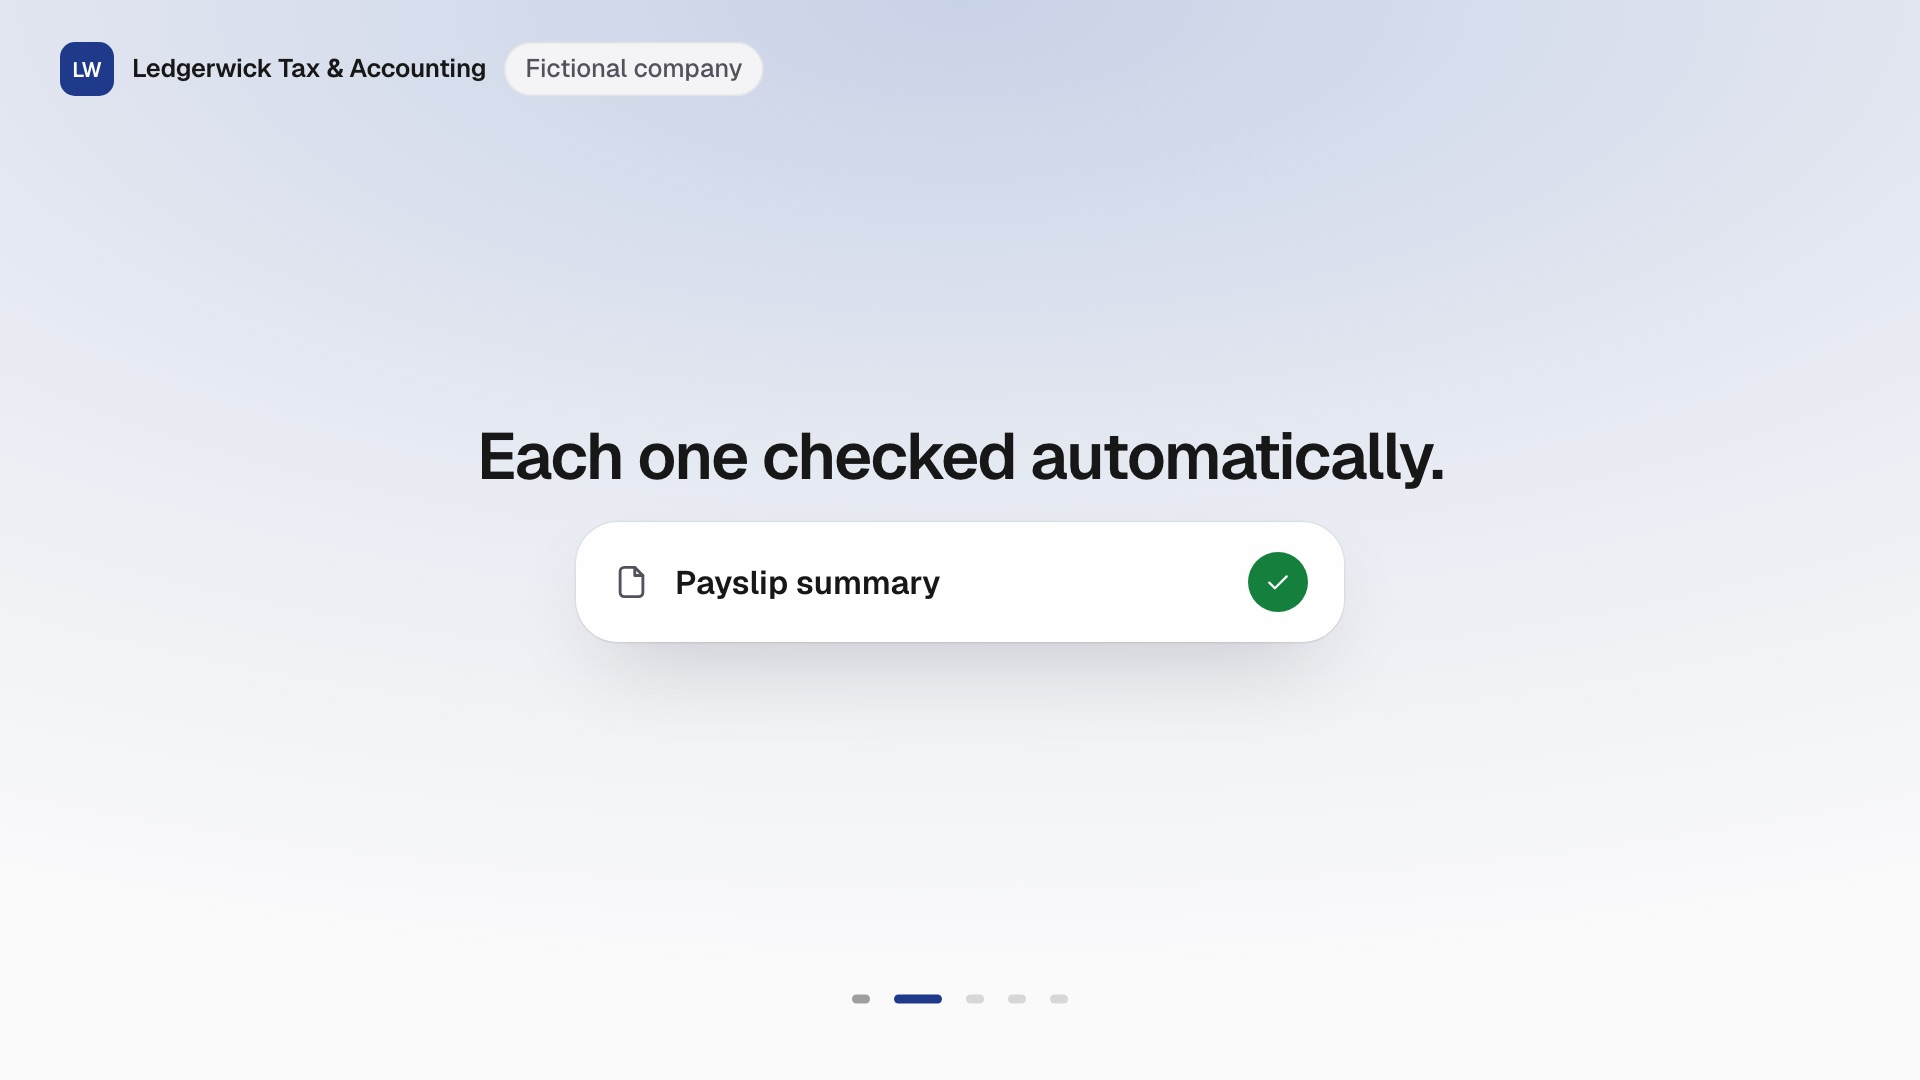
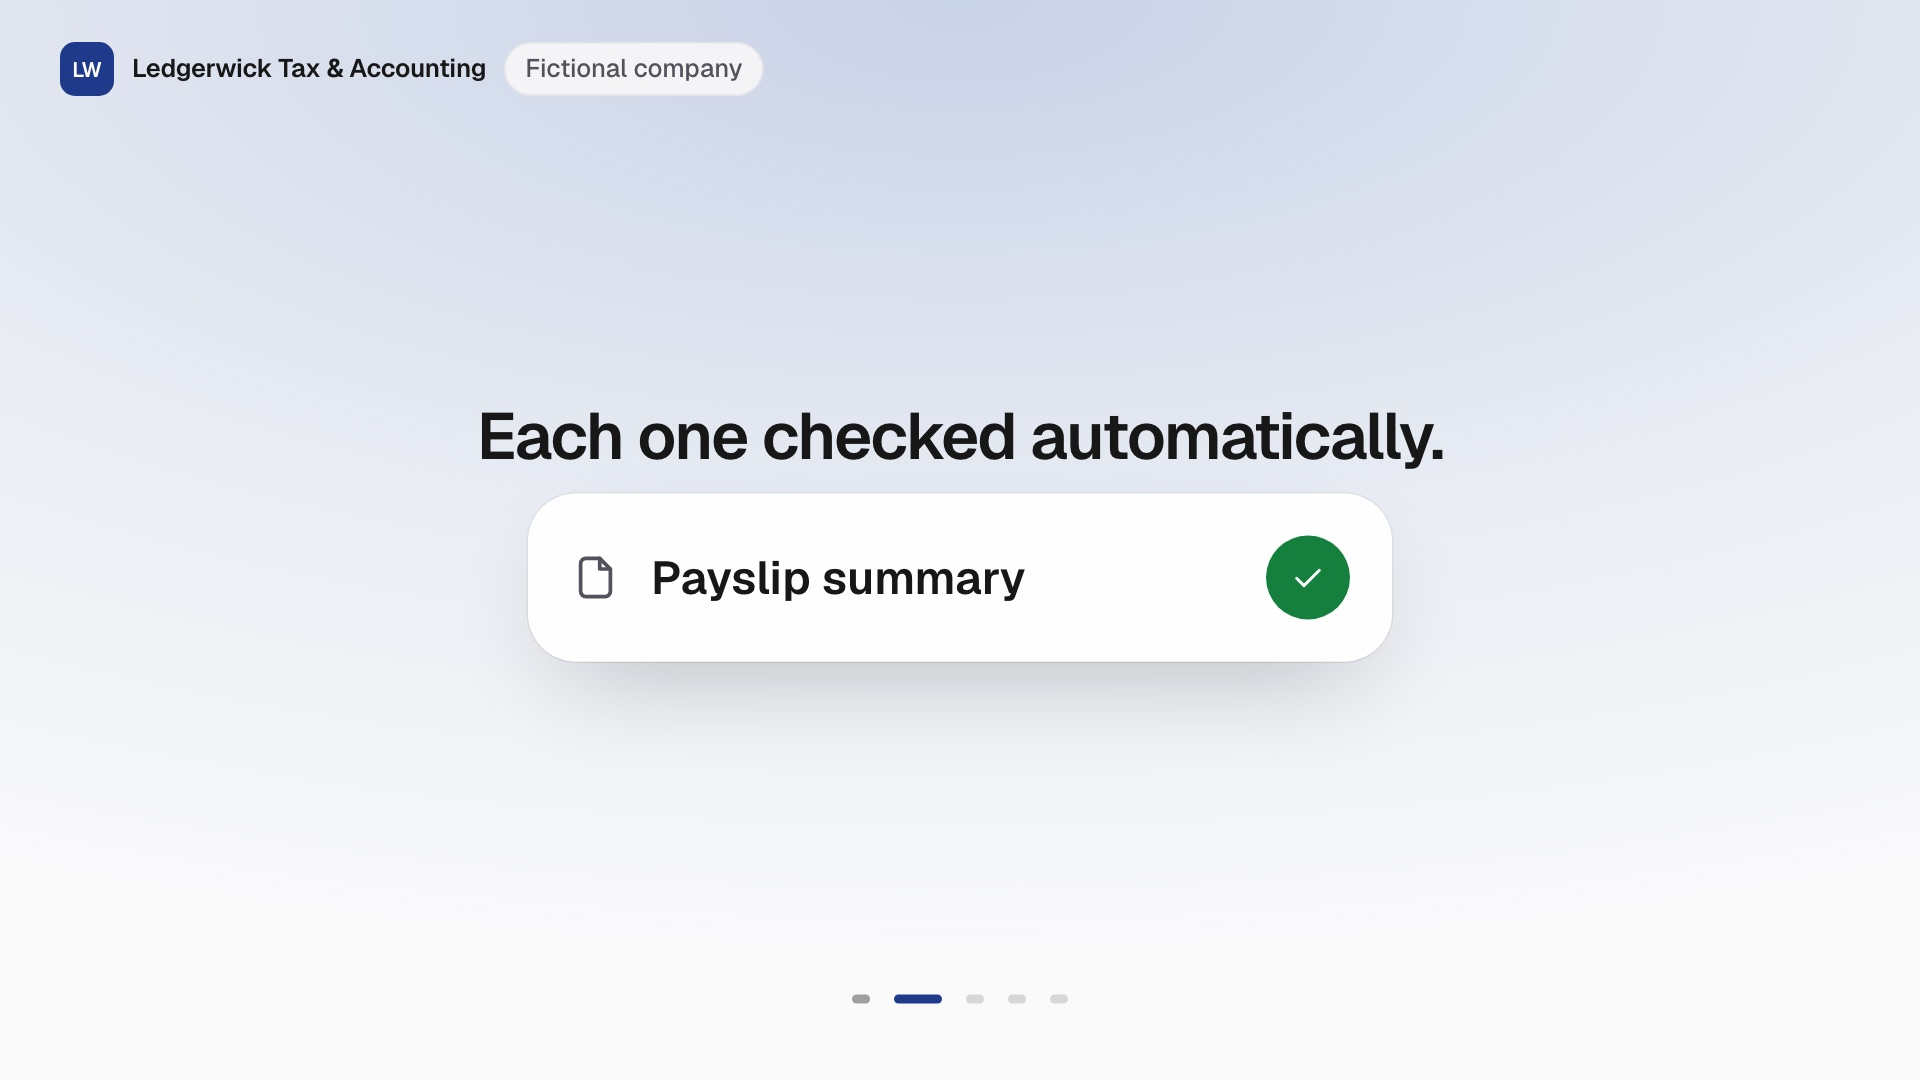
Scale the keynote elements up so each beat reads at phone-feed size

Changed region(s): [[0.25, 0.3667, 0.75, 0.4889], [0.3125, 0.4889, 0.7188, 0.6111], [0.2812, 0.5194, 0.5312, 0.55]]

diff --git a/packages/ui/src/film/keynote-parts.tsx b/packages/ui/src/film/keynote-parts.tsx
@@ -7,7 +7,15 @@ import type { KeynoteChipTone } from "./keynote-script";
  * The large, chrome-free elements a keynote beat shows: one message, one notification, one row,
  * one slot, one card or three figures. Text starts at 18 px so it reads in a phone feed.
  */
-const surface = "rounded-[28px] bg-white/95 shadow-[0_1px_2px_rgb(0_0_0/0.04),0_24px_60px_-20px_rgb(0_0_0/0.22)] ring-1 ring-black/5";
+const surface = "rounded-[32px] bg-white/95 shadow-[0_1px_2px_rgb(0_0_0/0.04),0_28px_70px_-24px_rgb(0_0_0/0.24)] ring-1 ring-black/5";
+
+// One scale for every part, sized for a 1920x1080 video watched in a phone feed.
+// At the 1280x720 recording layout: cards are 45% of the frame, body text 26 px, small text 20 px.
+const cardWidth = "w-full max-w-[30rem] md:max-w-[min(45vw,50rem)]";
+const metaText = "text-[clamp(18px,1.6vw,26px)]";
+const bodyText = "text-[clamp(20px,2vw,34px)]";
+const titleText = "text-[clamp(24px,2.4vw,40px)]";
+const valueText = "text-[clamp(40px,4.2vw,72px)]";
 
 const chipTones: Record<KeynoteChipTone, string> = {
   neutral: "bg-white/90 text-foreground ring-black/10",
@@ -19,7 +27,7 @@ const chipTones: Record<KeynoteChipTone, string> = {
 
 export function KeynoteChip({ tone = "neutral", children }: { tone?: KeynoteChipTone; children: ReactNode }) {
   return (
-    <span className={cx("inline-flex h-10 items-center rounded-full px-5 text-[18px] font-semibold ring-1", chipTones[tone])}>
+    <span className={cx("inline-flex h-12 items-center rounded-full px-6 text-[clamp(18px,1.6vw,26px)] font-semibold ring-1", chipTones[tone])}>
       {children}
     </span>
   );
@@ -31,7 +39,7 @@ function Avatar({ name, initials: given, brand }: { name: string; initials?: str
     <span
       aria-hidden
       className={cx(
-        "grid size-12 shrink-0 place-items-center rounded-full text-[17px] font-semibold",
+        "grid size-12 shrink-0 place-items-center rounded-full text-[17px] font-semibold md:size-16 md:text-[22px]",
         brand ? "bg-brand text-brand-foreground" : "bg-foreground/85 text-white",
       )}
     >
@@ -44,16 +52,17 @@ function Avatar({ name, initials: given, brand }: { name: string; initials?: str
 export function KeynoteBubble({ name, text, from, channel, initials }: { name: string; text: string; from: "customer" | "business"; channel?: string; initials?: string }) {
   const business = from === "business";
   return (
-    <div className={cx("flex w-full max-w-[36rem] items-end gap-3 text-left", business && "flex-row-reverse")}>
+    <div className={cx("flex w-full max-w-[32rem] items-end gap-4 text-left md:max-w-[min(50vw,54rem)]", business && "flex-row-reverse")}>
       <Avatar name={name} initials={initials} brand={business} />
       <div className="min-w-0">
-        <p className={cx("mb-1.5 text-[16px] font-medium text-muted", business && "text-right")}>
+        <p className={cx("mb-2 font-medium text-muted", metaText, business && "text-right")}>
           {name}
           {channel ? ` · ${channel}` : ""}
         </p>
         <p
           className={cx(
-            "rounded-[26px] px-6 py-4 text-[clamp(18px,1.6vw,24px)] leading-snug",
+            "rounded-[30px] px-7 py-5 leading-snug",
+            bodyText,
             business ? "rounded-br-lg bg-brand text-brand-foreground" : "rounded-bl-lg bg-white shadow-sm ring-1 ring-black/5",
           )}
         >
@@ -67,14 +76,14 @@ export function KeynoteBubble({ name, text, from, channel, initials }: { name: s
 /** A phone-style notification: app, title, one line. */
 export function KeynoteNotification({ icon, app, title, body }: { icon: IconName; app: string; title: string; body?: string }) {
   return (
-    <div className={cx(surface, "flex w-full max-w-[34rem] items-start gap-4 p-5 text-left")}>
-      <span className="grid size-12 shrink-0 place-items-center rounded-2xl bg-brand text-brand-foreground">
-        <Icon name={icon} size={22} />
+    <div className={cx(surface, cardWidth, "flex items-start gap-5 p-6 text-left md:p-7")}>
+      <span className="grid size-14 shrink-0 place-items-center rounded-2xl bg-brand text-brand-foreground md:size-16">
+        <Icon name={icon} size={28} />
       </span>
       <div className="min-w-0">
-        <p className="text-[16px] font-medium text-muted">{app}</p>
-        <p className="text-[clamp(19px,1.7vw,26px)] font-semibold leading-tight">{title}</p>
-        {body ? <p className="mt-1 text-[18px] text-muted">{body}</p> : null}
+        <p className={cx("font-medium text-muted", metaText)}>{app}</p>
+        <p className={cx("mt-0.5 font-semibold leading-tight", titleText)}>{title}</p>
+        {body ? <p className={cx("mt-1.5 text-muted", metaText)}>{body}</p> : null}
       </div>
     </div>
   );
@@ -84,17 +93,17 @@ export function KeynoteNotification({ icon, app, title, body }: { icon: IconName
 export function KeynoteRow({ icon = "file", title, status }: { icon?: IconName; title: string; status?: "pass" | "fail" | "wait" }) {
   const mark = status === "pass" ? "check" : status === "fail" ? "alert" : status === "wait" ? "clock" : null;
   return (
-    <div className={cx(surface, "flex w-full max-w-[32rem] items-center gap-4 px-6 py-5 text-left")}>
-      <Icon name={icon} size={26} className="shrink-0 text-muted" />
-      <p className="min-w-0 flex-1 truncate text-[clamp(19px,1.7vw,26px)] font-semibold">{title}</p>
+    <div className={cx(surface, cardWidth, "flex items-center gap-5 px-7 py-6 text-left md:py-7")}>
+      <Icon name={icon} size={34} className="shrink-0 text-muted" />
+      <p className={cx("min-w-0 flex-1 truncate font-semibold", titleText)}>{title}</p>
       {mark ? (
         <span
           className={cx(
-            "grid size-10 shrink-0 place-items-center rounded-full text-white",
+            "grid size-12 shrink-0 place-items-center rounded-full text-white md:size-14",
             status === "pass" ? "bg-pass" : status === "fail" ? "bg-fail" : "bg-wait",
           )}
         >
-          <Icon name={mark} size={20} />
+          <Icon name={mark} size={26} />
         </span>
       ) : null}
     </div>
@@ -104,10 +113,10 @@ export function KeynoteRow({ icon = "file", title, status }: { icon?: IconName; 
 /** A small stack of file chips, for "the client uploads 6 files". */
 export function KeynoteFileStack({ names }: { names: string[] }) {
   return (
-    <ul className="flex max-w-[40rem] flex-wrap justify-center gap-3">
+    <ul className="flex max-w-[34rem] flex-wrap justify-center gap-3 md:max-w-[min(62vw,64rem)] md:gap-4">
       {names.map((name) => (
-        <li key={name} className="inline-flex items-center gap-2 rounded-2xl bg-white/95 px-4 py-3 text-[18px] font-medium shadow-sm ring-1 ring-black/5">
-          <Icon name="file" size={20} className="text-brand" />
+        <li key={name} className={cx("inline-flex items-center gap-2.5 rounded-2xl bg-white/95 px-5 py-3.5 font-medium shadow-sm ring-1 ring-black/5", bodyText)}>
+          <Icon name="file" size={26} className="text-brand" />
           {name}
         </li>
       ))}
@@ -118,14 +127,14 @@ export function KeynoteFileStack({ names }: { names: string[] }) {
 /** One calendar slot: the day, the time and what was booked. */
 export function KeynoteSlot({ day, time, title }: { day: string; time: string; title: string }) {
   return (
-    <div className={cx(surface, "flex w-full max-w-[30rem] items-stretch overflow-hidden text-left")}>
-      <div className="flex w-28 shrink-0 flex-col items-center justify-center gap-1 bg-brand py-5 text-brand-foreground">
-        <Icon name="calendar" size={22} />
-        <span className="text-[17px] font-semibold">{day}</span>
+    <div className={cx(surface, cardWidth, "flex items-stretch overflow-hidden text-left")}>
+      <div className="flex w-28 shrink-0 flex-col items-center justify-center gap-1.5 bg-brand py-6 text-brand-foreground md:w-36">
+        <Icon name="calendar" size={28} />
+        <span className={cx("font-semibold", metaText)}>{day}</span>
       </div>
-      <div className="flex flex-col justify-center px-6 py-5">
-        <p className="text-[clamp(30px,2.8vw,44px)] font-semibold leading-none">{time}</p>
-        <p className="mt-2 text-[18px] text-muted">{title}</p>
+      <div className="flex min-w-0 flex-col justify-center px-7 py-6">
+        <p className={cx("font-semibold leading-none", valueText)}>{time}</p>
+        <p className={cx("mt-2.5 text-muted", metaText)}>{title}</p>
       </div>
     </div>
   );
@@ -134,20 +143,20 @@ export function KeynoteSlot({ day, time, title }: { day: string; time: string; t
 /** A card with a title, a few lines and one large value, for a call or a proposal. */
 export function KeynoteCard({ icon, eyebrow, title, value, lines = [] }: { icon: IconName; eyebrow: string; title: string; value?: string; lines?: string[] }) {
   return (
-    <div className={cx(surface, "w-full max-w-[34rem] p-7 text-left")}>
-      <p className="flex items-center gap-2 text-[16px] font-medium text-muted">
-        <Icon name={icon} size={18} className="text-brand" />
+    <div className={cx(surface, cardWidth, "p-7 text-left md:p-9")}>
+      <p className={cx("flex items-center gap-2.5 font-medium text-muted", metaText)}>
+        <Icon name={icon} size={24} className="text-brand" />
         {eyebrow}
       </p>
-      <p className="mt-3 text-[clamp(22px,2vw,30px)] font-semibold leading-tight">{title}</p>
+      <p className={cx("mt-3 font-semibold leading-tight", titleText)}>{title}</p>
       {lines.length ? (
-        <ul className="mt-3 space-y-1.5 text-[18px] text-muted">
+        <ul className={cx("mt-3 space-y-1.5 text-muted", metaText)}>
           {lines.map((line) => (
             <li key={line}>{line}</li>
           ))}
         </ul>
       ) : null}
-      {value ? <p className="mt-5 text-[clamp(30px,2.8vw,44px)] font-semibold leading-none tracking-[-0.02em] text-brand">{value}</p> : null}
+      {value ? <p className={cx("mt-6 font-semibold leading-none tracking-[-0.02em] text-brand", valueText)}>{value}</p> : null}
     </div>
   );
 }
@@ -155,11 +164,11 @@ export function KeynoteCard({ icon, eyebrow, title, value, lines = [] }: { icon:
 /** Up to three big figures side by side. */
 export function KeynoteFigures({ figures }: { figures: { value: string; label: string }[] }) {
   return (
-    <dl className="grid w-full max-w-[44rem] grid-cols-3 gap-3 md:gap-5">
+    <dl className="grid w-full max-w-[34rem] grid-cols-3 gap-3 md:max-w-[min(62vw,64rem)] md:gap-6">
       {figures.slice(0, 3).map((figure) => (
-        <div key={figure.label} className={cx(surface, "flex flex-col-reverse items-center px-3 py-6 md:px-5")}>
-          <dt className="mt-2 text-[16px] font-medium leading-tight text-muted md:text-[18px]">{figure.label}</dt>
-          <dd className="text-[clamp(36px,4vw,64px)] font-semibold leading-none tracking-[-0.03em]">{figure.value}</dd>
+        <div key={figure.label} className={cx(surface, "flex flex-col-reverse items-center px-3 py-7 md:px-6 md:py-9")}>
+          <dt className={cx("mt-3 font-medium leading-tight text-muted", metaText)}>{figure.label}</dt>
+          <dd className="text-[clamp(40px,5.4vw,92px)] font-semibold leading-none tracking-[-0.03em]">{figure.value}</dd>
         </div>
       ))}
     </dl>

diff --git a/packages/ui/src/film/keynote-stage.tsx b/packages/ui/src/film/keynote-stage.tsx
@@ -55,14 +55,14 @@ export function KeynoteStage({ film, liveHref = "/live", autoplay = true, classN
         <div
           key={step}
           data-keynote-step={step}
-          className={cx("flex w-full max-w-[44rem] flex-col items-center text-center", reducedMotion ? "keynote-fade" : "keynote-rise")}
+          className={cx("flex w-full max-w-[44rem] flex-col items-center text-center md:max-w-[min(72vw,72rem)]", reducedMotion ? "keynote-fade" : "keynote-rise")}
         >
           {beat ? (
             <>
               <h2 className="text-balance text-[clamp(30px,3.4vw,60px)] font-semibold leading-[1.08] tracking-[-0.025em]">
                 {beat.caption}
               </h2>
-              <div className="mt-[clamp(20px,3vh,40px)] flex w-full justify-center">{beat.element}</div>
+              <div className="mt-[clamp(14px,2.2vh,28px)] flex w-full justify-center">{beat.element}</div>
               {beat.chip ? (
                 <div className="mt-[clamp(16px,2.4vh,28px)]">
                   <KeynoteChip tone={beat.chip.tone}>{beat.chip.label}</KeynoteChip>
